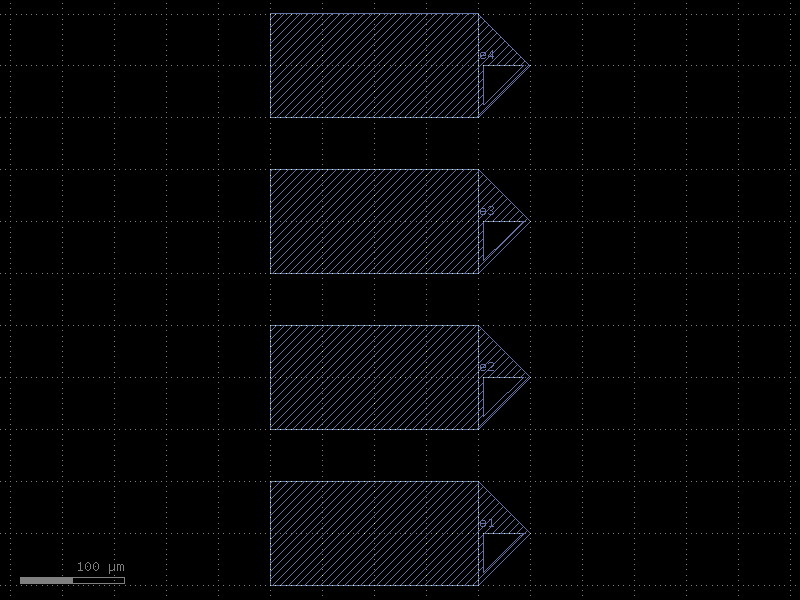
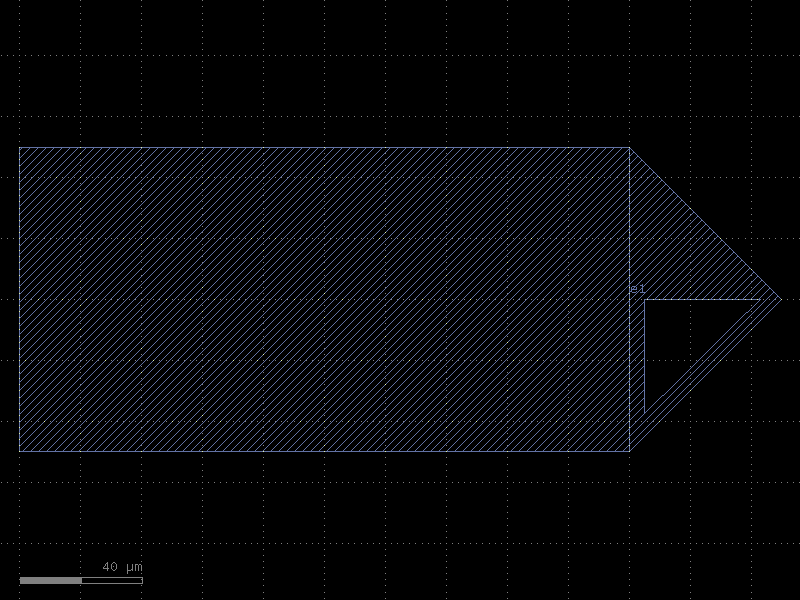
change default number of pads in array; maybe we can add function-specific overrides for autodocgen? also add ability to create alignment markers for sample in sample.py

diff --git a/src/qnngds/sample.py b/src/qnngds/sample.py
@@ -434,6 +434,31 @@ class Sample(object):
                 np.array(self.origin) + dcenter,
             )
 
+    def write_alignment_marks(
+        self, marker_spec: ComponentSpecOrComponent, location: tuple[float, float]
+    ) -> None:
+        """Adds alignment markers
+
+        Args:
+            marker_spec (ComponentSpec | Component): marker to use (e.g. cross)
+            location (tuple[float, float]): location of top-right alignment mark.
+                makes symmetric alignment marks about origin (0, 0)
+
+        Returns:
+            None
+
+        Side Effects:
+            Updates self.components with the alignment markers
+        """
+        marker_refs = self.components.add_ref(
+            gf.get_component(marker_spec),
+            columns=2,
+            rows=2,
+            column_pitch=2 * location[0],
+            row_pitch=2 * location[1],
+        )
+        marker_refs.center = (0, 0)
+
     def _check_component_size(self, component: gf.Component) -> bool:
         """Checks component size
 

diff --git a/src/qnngds/pads.py b/src/qnngds/pads.py
@@ -70,7 +70,7 @@ def stack(
 def array(
     pad_specs: ComponentSpecs = (stack,),
     columns: int = 1,
-    rows: int = 4,
+    rows: int = 1,
     pitch: float = 150,
 ) -> gf.Component:
     """Creates a linear array of pads
